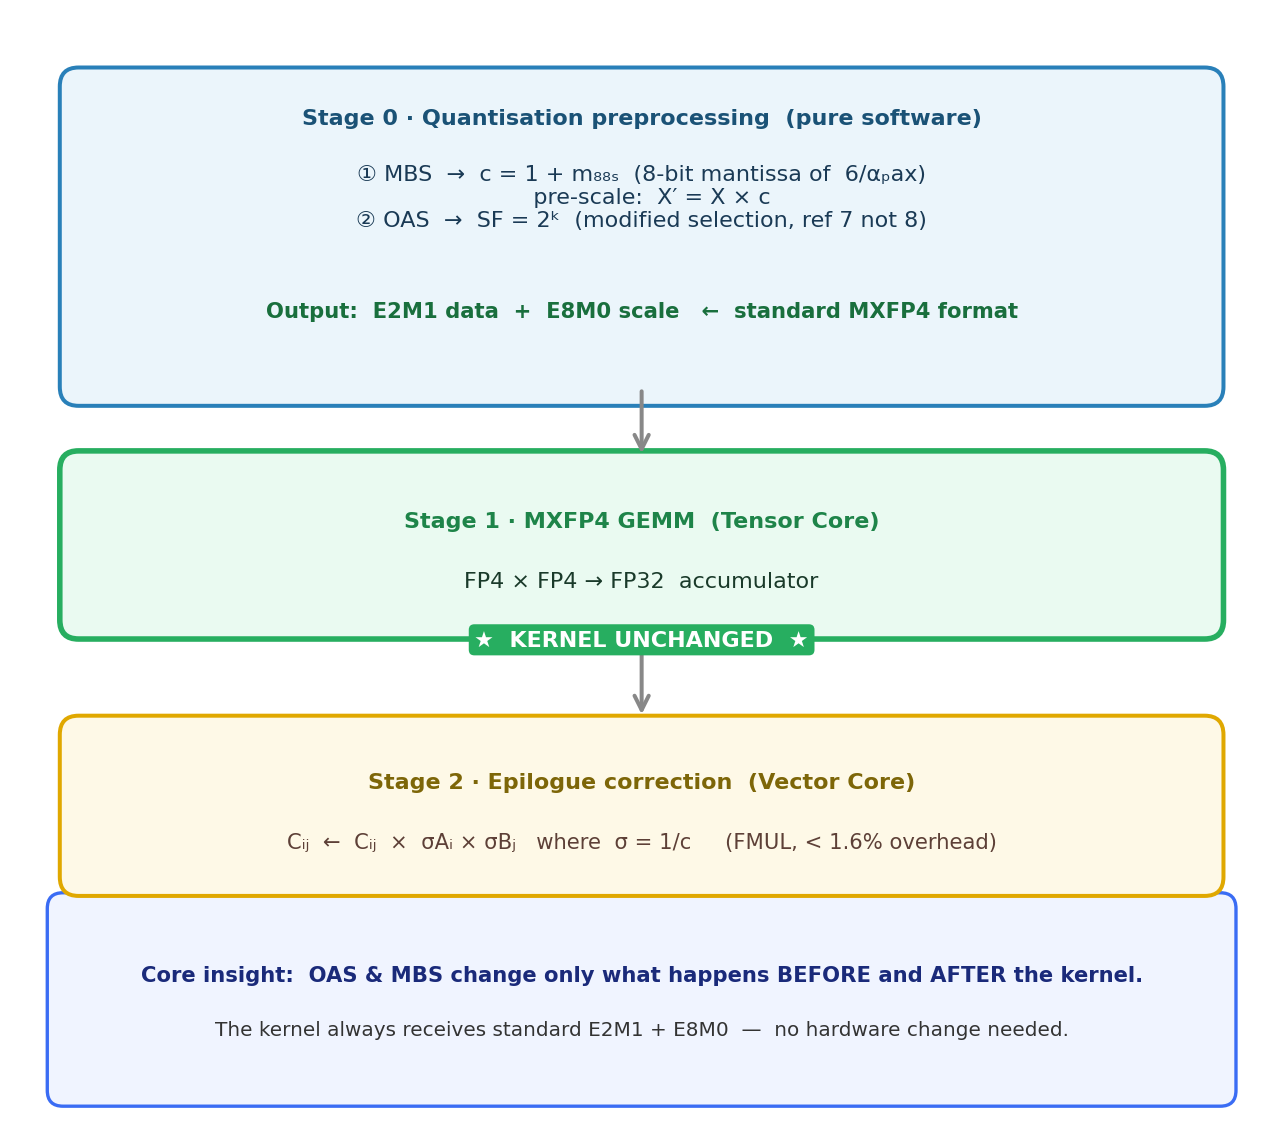
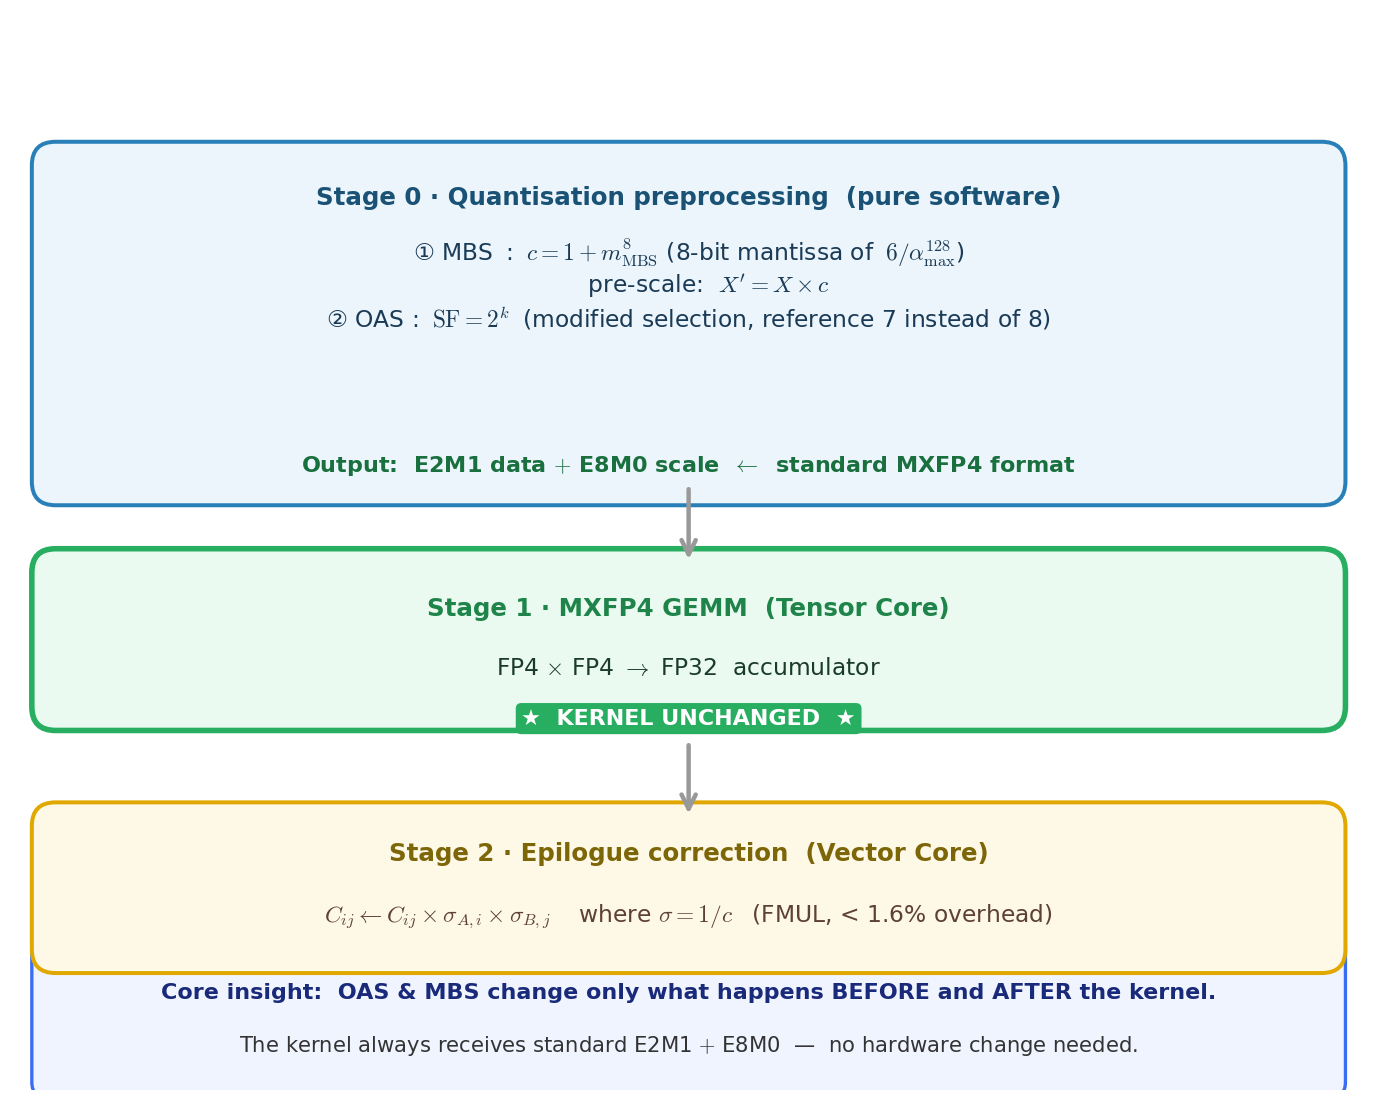
docs: commit the OAS+MBS diagram generator script
Add figures/gen_oas_mbs_diagram.py (matplotlib, mathtext formulas) that
regenerates figures/oas_mbs_kernel_reuse.png — the algorithm-overview figure
embedded in the report. Makes the diagram reproducible and editable instead of
living in a throwaway /tmp script.

Changed region(s): [[0.0, 0.0615, 0.9977, 0.9837], [0.0624, 0.0307, 0.9353, 0.0615]]

diff --git a/runs/OAS-MBS-2603.08713-20260709-150131/figures/gen_oas_mbs_diagram.py b/runs/OAS-MBS-2603.08713-20260709-150131/figures/gen_oas_mbs_diagram.py
@@ -1,0 +1,99 @@
+"""Regenerate the OAS+MBS algorithm-overview diagram embedded in the run report.
+
+Draws a 3-stage flow (quantisation preprocessing -> unchanged MXFP4 GEMM ->
+epilogue correction) showing WHY OAS+MBS reuses the stock MXFP4 kernel unchanged.
+Output: figures/oas_mbs_kernel_reuse.png (referenced by README.md / README_zh.md).
+
+Run:  python figures/gen_oas_mbs_diagram.py   (needs matplotlib)
+Design notes: matplotlib mathtext (fontset='cm') for correct formula glyphs;
+FancyBboxPatch rounded blocks colour-coded by execution unit; annotate() arrows.
+"""
+import os
+
+import matplotlib
+matplotlib.use("Agg")
+matplotlib.rcParams["mathtext.fontset"] = "cm"
+import matplotlib.pyplot as plt
+from matplotlib.patches import FancyBboxPatch
+
+OUT = os.path.join(os.path.dirname(__file__), "oas_mbs_kernel_reuse.png")
+
+fig, ax = plt.subplots(figsize=(8.5, 6.8))
+ax.set_xlim(0, 8.5)
+ax.set_ylim(0, 6.8)
+ax.axis("off")
+fig.patch.set_facecolor("white")
+
+
+def rbox(cx, cy, w, h, fc, ec, lw=1.8):
+    ax.add_patch(FancyBboxPatch((cx - w / 2, cy - h / 2), w, h,
+                                boxstyle="round,pad=0.15", facecolor=fc,
+                                edgecolor=ec, linewidth=lw, zorder=2))
+
+
+def t(x, y, s, **kw):
+    kw.setdefault("ha", "center")
+    kw.setdefault("va", "center")
+    kw.setdefault("zorder", 3)
+    ax.text(x, y, s, **kw)
+
+
+def arr(y0, y1, x=4.25):
+    ax.annotate("", xy=(x, y1), xytext=(x, y0),
+                arrowprops=dict(arrowstyle="->", color="#999", lw=2,
+                                mutation_scale=16), zorder=4)
+
+
+# ── Stage 0: quantisation preprocessing (pure software) ──────────────────────
+rbox(4.25, 4.85, 8.0, 2.0, "#EBF5FB", "#2980B9")
+t(4.25, 5.65, "Stage 0 · Quantisation preprocessing  (pure software)",
+  fontsize=11, weight="bold", color="#1a5276")
+t(4.25, 5.1,
+  r"① MBS $\;$: $\; c = 1 + m_{\rm MBS}^8$ (8-bit mantissa of $\;6/\alpha_{\max}^{128}$)"
+  "\n"
+  r"$\quad\quad$pre-scale:  $X' = X \times c$"
+  "\n"
+  r"② OAS : $\; \mathrm{SF} = 2^k\;$ (modified selection, reference 7 instead of 8)",
+  fontsize=10.5, color="#1a3a55", multialignment="center")
+t(4.25, 3.95,
+  r"Output:  E2M1 data $+$ E8M0 scale $\;\leftarrow\;$ standard MXFP4 format",
+  fontsize=10, weight="bold", color="#196f3d")
+
+arr(3.83, 3.33)
+
+# ── Stage 1: MXFP4 GEMM on the Tensor Core (unchanged) ───────────────────────
+rbox(4.25, 2.85, 8.0, 0.85, "#EAFAF1", "#27AE60", lw=2.5)
+t(4.25, 3.05, "Stage 1 · MXFP4 GEMM  (Tensor Core)",
+  fontsize=11, weight="bold", color="#1e8449")
+t(4.25, 2.67, r"FP4 $\times$ FP4 $\rightarrow$ FP32  accumulator",
+  fontsize=10.5, color="#1a3a2a")
+ax.text(4.25, 2.35, "★  KERNEL UNCHANGED  ★",
+        fontsize=10, weight="bold", color="white", ha="center", va="center",
+        zorder=5, bbox=dict(boxstyle="round,pad=0.25", facecolor="#27AE60",
+                            edgecolor="none"))
+
+arr(2.21, 1.72)
+
+# ── Stage 2: epilogue correction on the Vector Core ──────────────────────────
+rbox(4.25, 1.28, 8.0, 0.78, "#FEF9E7", "#E0A800")
+t(4.25, 1.5, "Stage 2 · Epilogue correction  (Vector Core)",
+  fontsize=11, weight="bold", color="#7d6608")
+t(4.25, 1.1,
+  r"$C_{ij} \leftarrow C_{ij} \times \sigma_{A,i} \times \sigma_{B,j}$"
+  r"$\quad$ where $\sigma=1/c\;$  (FMUL, < 1.6% overhead)",
+  fontsize=10.5, color="#5d4037")
+
+# ── key insight ──────────────────────────────────────────────────────────────
+ax.add_patch(FancyBboxPatch((0.2, 0.05), 8.1, 0.85, boxstyle="round,pad=0.1",
+                            facecolor="#f0f4ff", edgecolor="#3a6cf4", lw=1.5,
+                            zorder=1))
+t(4.25, 0.62,
+  "Core insight:  OAS & MBS change only what happens BEFORE and AFTER the kernel.",
+  fontsize=10, weight="bold", color="#1a2a7a")
+t(4.25, 0.28,
+  r"The kernel always receives standard E2M1 $+$ E8M0  —  no hardware change needed.",
+  fontsize=9.5, color="#333")
+
+plt.tight_layout(pad=0.3)
+plt.savefig(OUT, dpi=160, bbox_inches="tight", facecolor="white")
+print(f"saved {OUT}")